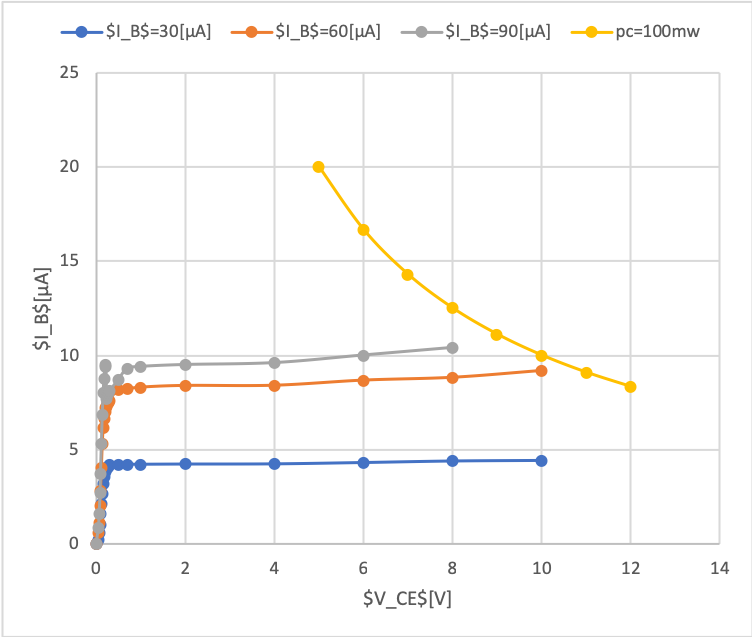
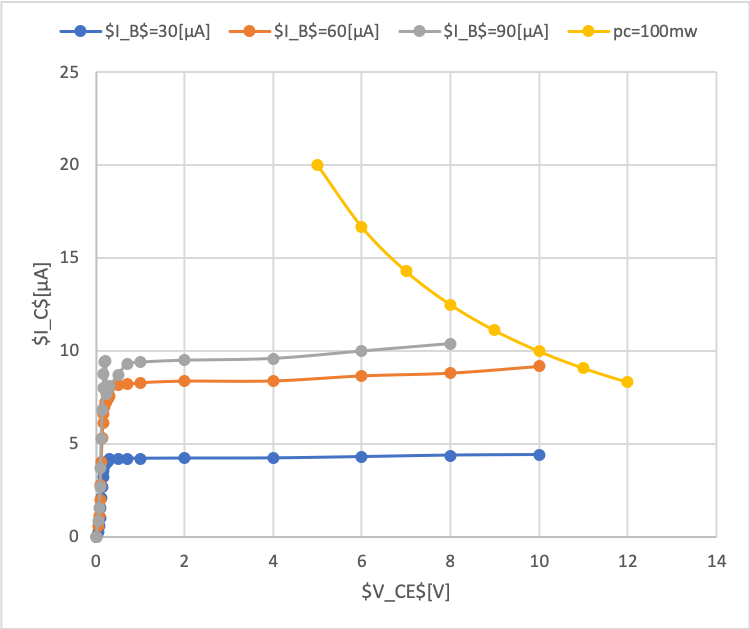
とりあえず考察issue以外は解決

diff --git a/後期_電気電子/ダイオード・トランジスタの特性/ダイオード・トランジスタの特性.md b/後期_電気電子/ダイオード・トランジスタの特性/ダイオード・トランジスタの特性.md
@@ -1,9 +1,15 @@
 # ダイオード・トランジスタの特性
+<style>
+    div.fig{
+        text-align:center;
+    }
+</style>
+
 ## issue
 ### 1/21
-* [ ] ダイオードの測定回路の図を書く
-* [ ] トランジスタの測定回路の図を書く
-* [ ] 図3の縦軸ラベルが間違っている
+* [x] ダイオードの測定回路の図を書く
+* [x] トランジスタの測定回路の図を書く
+* [x] 図3(v3の図5)の縦軸ラベルが間違っている
 * [ ] 考察2の図がおかしい
 
 ## 目的
@@ -31,9 +37,12 @@
 2.  電流が 30mA の範囲で電圧ー電流特性を測定する
 3.  カソード側を計測する
 
-順方向特性を表す実験結果を表 1 に示す。
+測定回路を図1に示す。また、順方向特性を表す実験結果を表 1 に、逆方向特性を表す実験結果を表 2 に示す。
+![図1](./ダイオード回路.png)
+<div class="fig">図1 ダイオードの測定回路</div>
 
-<div style="text-align:center;">表1 ダイオードの順方向特性</div>
+----
+<div class="fig">表1 ダイオードの順方向特性</div>
 
 | 電圧[V] | 電流[mA] |
 | ------- | -------- |
@@ -61,8 +70,7 @@
 | 0.7     | 5.18     |
 | 0.77    | 14       |
 
-逆方向特性を表す実験結果を表 2 に示す。
-
+----
 <div style="text-align:center;">表2 ダイオードの逆方向特性</div>
 
 | 電圧[V] | 電流[μA] |
@@ -78,15 +86,15 @@
 | 9       | 0.92     |
 | 10      | 1        |
 
-それぞれの実験結果のグラフを図 1 と図 2 に示す。
+それぞれの実験結果のグラフを図2 と図3 に示す。
 
-![順方向特性](./ダイオードの順方向特性.png)
+![図2](./ダイオードの順方向特性.png)
 
-<div style="text-align:center;">図1 ダイオードの順方向特性</div>
+<div style="text-align:center;">図2 ダイオードの順方向特性</div>
 
-![逆方向特性](./ダイオードの逆方向特性.png)
+![図3](./ダイオードの逆方向特性.png)
 
-<div style="text-align:center;">図2 ダイオードの逆方向特性</div>
+<div style="text-align:center;">図3 ダイオードの逆方向特性</div>
 
 ### トランジスタの増幅作用・スイッチング作用
 
@@ -122,9 +130,13 @@
 
 // 電流と電圧の席が 100mW 以下の場合のみ測定する
 
-実験結果を表 4 に示す。
+測定回路を図4に示す。また、実験結果を表 4 に示す。
 
-<div style="text-align:center;">表4 トランジスタの出力特性の測定結果</div>
+![図4](./トランジスタ回路.png)
+<div class="fig">図4 トランジスタの測定回路</div>
+
+
+<div class="fig">表4 トランジスタの出力特性の測定結果</div>
 
 |           | $I_B$=30[μA] | $I_B$=60[μA] | $I_B$=90[μA] |
 | --------- | ------------ | ------------ | ------------ |
@@ -153,11 +165,11 @@
 | 8         | 4.38         | 8.82         | 10.4         |
 | 10        | 4.41         | 9.18         |              |
 
-実験結果を図 3 に示す。
+実験結果を図5 に示す。
 
-![出力特性](./トランジスタの出力特性.png)
+![図5](./トランジスタの出力特性.png)
 
-<div style="text-align:center;">図3 トランジスタの出力特性</div>
+<div class="fig">図5 トランジスタの出力特性</div>
 
 ## 考察
 
@@ -173,13 +185,13 @@
 
 NPN 型および PNP 型トランジスタの構造をダイオードの記号を使って表せ。
 
-NPN型を図4に示す。
-![図4](./NPN.png)
-<div style="text-align:center;">図4 NPN型をダイオードの記号を用いて表した</div>
+NPN型を図6に示す。
+![図6](./NPN.png)
+<div class="fig">図6 NPN型をダイオードの記号を用いて表した</div>
 
-PNP型を図5に示す。
+PNP型を図7に示す。
 ![図5](./PNP.png)
-<div style="text-align:center;">図5 PNP型をダイオードの記号を用いて表した</div>
+<div class="fig">図7 PNP型をダイオードの記号を用いて表した</div>
 
 ### 考察 3
 
@@ -217,4 +229,3 @@ $$
 * ダイオードの極性には整流作用がある
 * トランジスタは電流を増幅したり、止めたり、流したりを制御できる。
 * トランジスタの発明は電子機器の小型化に貢献していることを後日知った。
-
